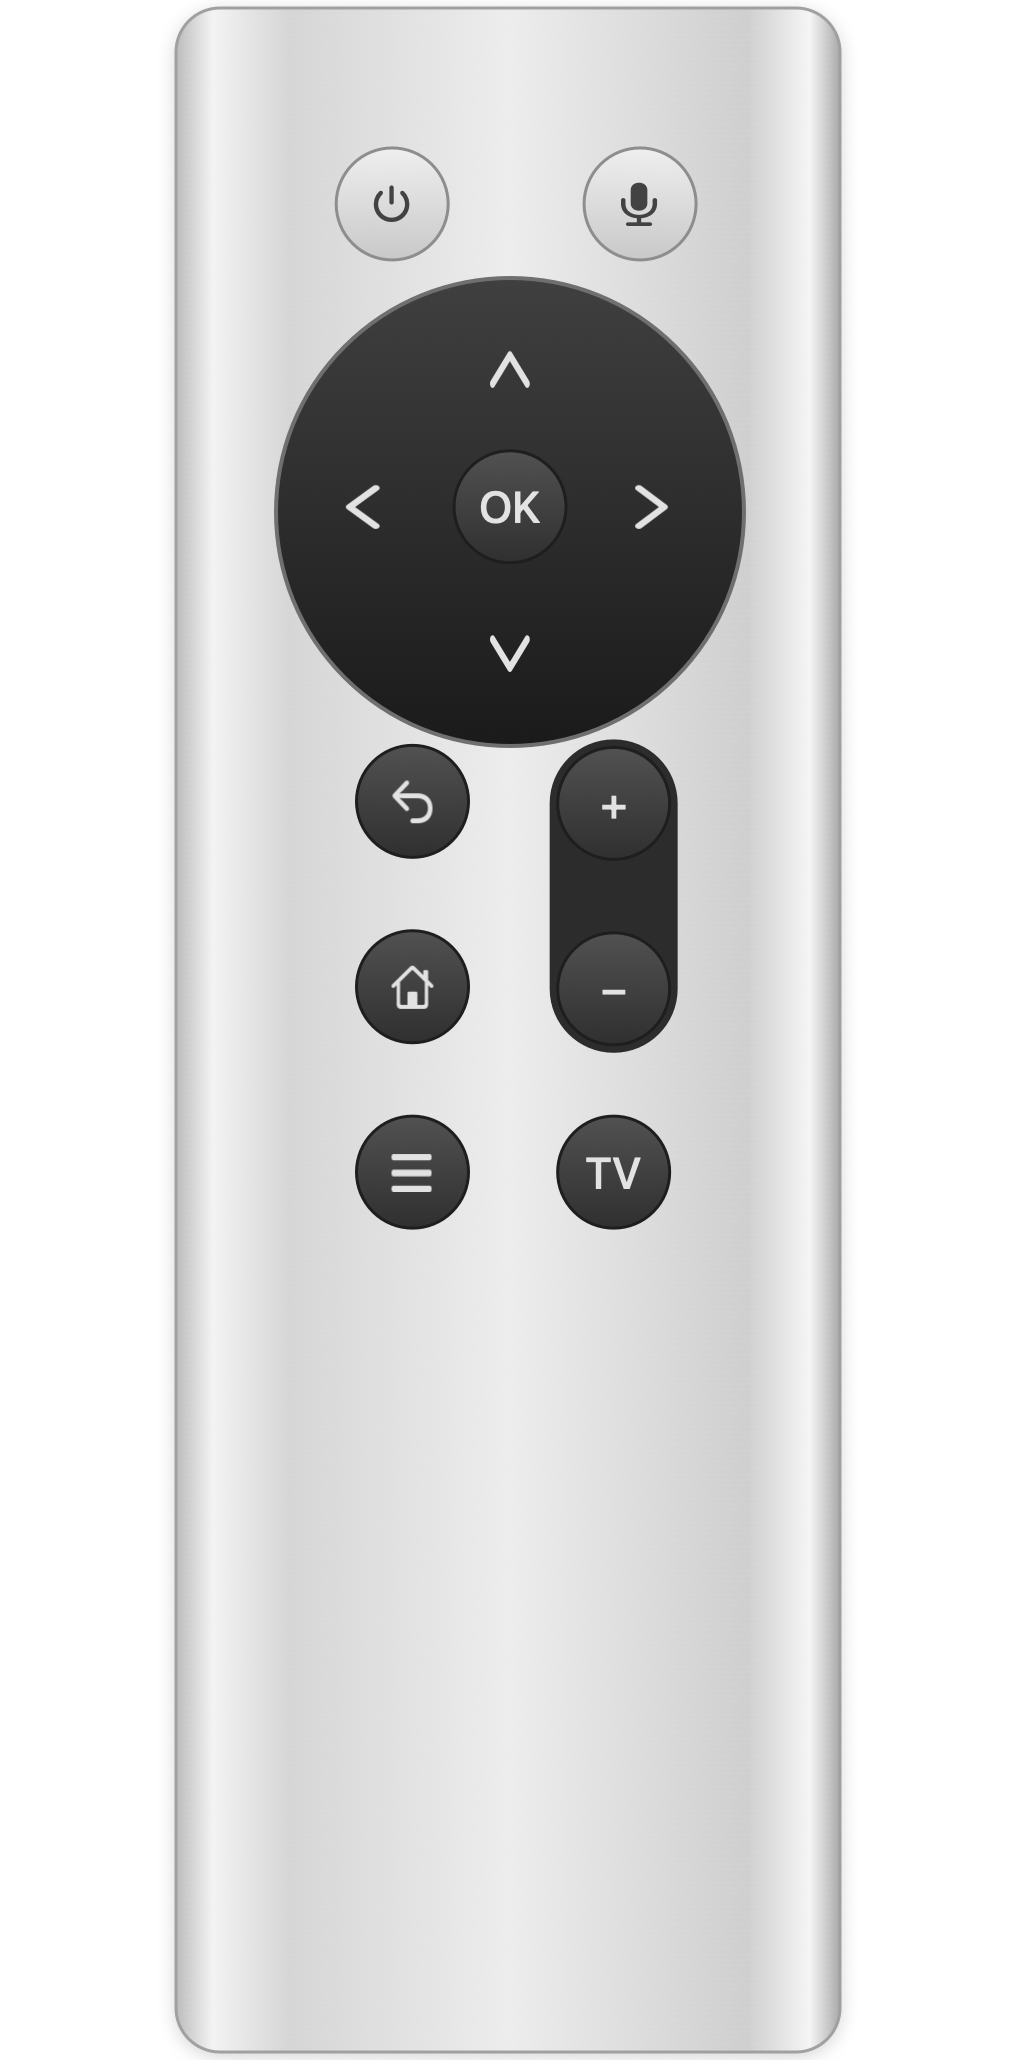
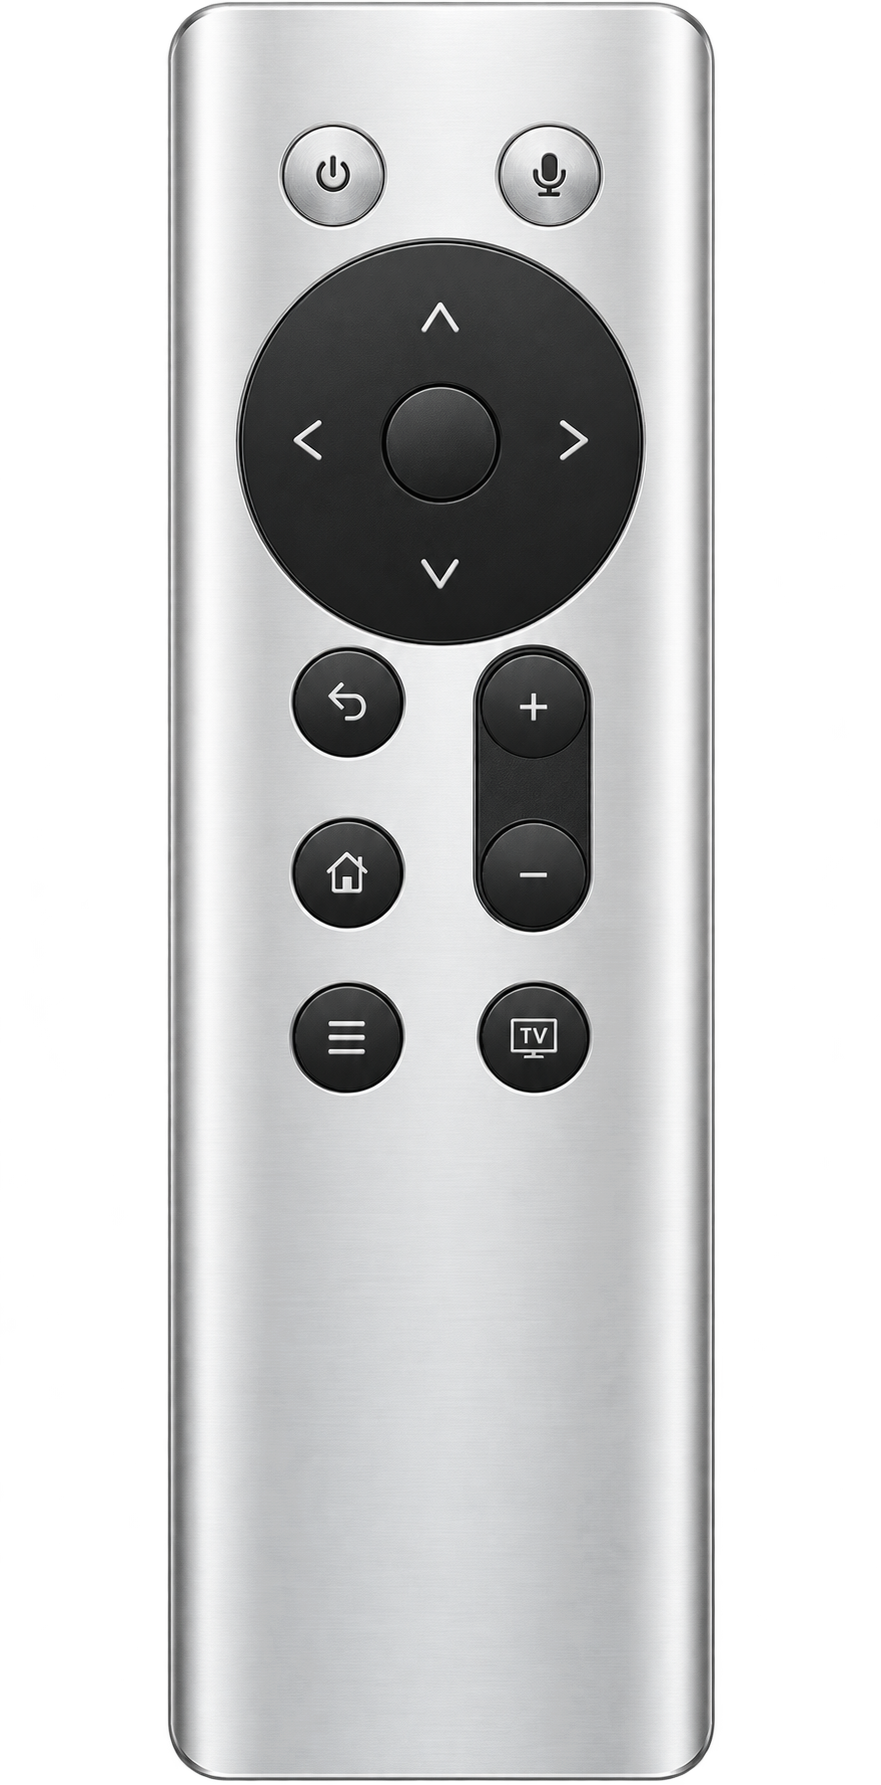
style: replace remote schematic with an unbranded product render

diff --git a/docs/artwork.md b/docs/artwork.md
@@ -1,0 +1,12 @@
+# 遥控器资源
+
+成品：`Resources/BuddyRemoteIllustration.png`。使用内置 imagegen，根据本项目绘制的按键布局参考生成写实产品渲染，保留透明背景，不包含厂商 Logo、品牌字样或下载的产品照片。
+
+`scripts/generate-remote-layout-reference.swift` 只生成布局参考，不应直接覆盖成品。生成新版本后核对电源、语音、方向、确认、返回、主页、菜单、音量和 TV 键与映射连线的位置，并运行 `python3 scripts/verify-onboarding-resources.py Resources`。
+
+## 成品提示词
+
+```text
+Use case: sketch-to-render. Asset type: transparent UI product cutout for a remote button-mapping panel. The referenced image is ONLY a geometric layout guide, not the desired visual style. Turn it into a premium photorealistic studio product render of a slim silver aluminum Bluetooth voice remote, shown perfectly front-on, upright, centered, full length visible, no perspective tilt. Preserve EXACTLY the existing outer framing, remote silhouette and every button center so annotation lines still land on the buttons. Replace the crude flat diagram aesthetic with convincing fine brushed aluminum, narrow polished bevels, finely molded matte black plastic, subtle edge highlights, realistic soft product lighting and elegant restrained contrast. Top two buttons: power on left, microphone on right, embossed small dark symbols on silver circular buttons. Large black circular direction pad below with subtle small directional marks and inset center confirm button. Below it three rows: return / volume plus, home / volume minus, menu / TV. Plus and minus share one black vertical rocker. Preserve all button locations, dimensions and proportions from the reference closely. Keep legends delicate rather than oversized. The lower half is bare clean metal. Absolutely NO manufacturer logo, NO Xiaomi/Mi symbols, NO Voice Input Buddy text, no branding anywhere, no watermark, no labels outside the remote, no hands or background scene. True transparent alpha background. This should look like a high-end original 3D product visualization, NOT an SVG, cartoon, diagram or icon.
+```
+

diff --git a/THIRD_PARTY_NOTICES.md b/THIRD_PARTY_NOTICES.md
@@ -99,4 +99,4 @@ The upstream project included an RC003 product photo. That photo and upstream pr
 
 ## Setup guide screenshots
 
-The 16 light/dark setup screenshots in `Resources/Onboarding` are carried over from remote-mic-app (SayAll contributors), under the upstream project license. They illustrate third-party and macOS settings; depicted interface copyrights and trademarks remain with their respective owners. The upstream proprietary app logo and remote product photo are not bundled. `BuddyRemoteIllustration.png` is an original schematic generated by `scripts/generate-remote-illustration.swift`.
+The 16 light/dark setup screenshots in `Resources/Onboarding` are carried over from remote-mic-app (SayAll contributors), under the upstream project license. They illustrate third-party and macOS settings; depicted interface copyrights and trademarks remain with their respective owners. The upstream proprietary app logo and remote product photo are not bundled. `BuddyRemoteIllustration.png` is an unbranded generated product render. `scripts/generate-remote-layout-reference.swift` produces its coordinate reference, not the shipped image. The artwork uses no manufacturer logos or downloaded product photos.

diff --git a/docs/provenance.md b/docs/provenance.md
@@ -14,4 +14,4 @@
 
 本项目新图标由 scripts/generate-icon.swift 绘制，菜单栏图标由 scripts/generate-status-icons.swift 绘制，表达麦克风与硬件按钮，未使用原品牌图形。
 
-设置向导的 16 张浅色／深色操作截图来自上游 `Resources/Onboarding`，保留来源归属；未使用其受限 App Logo 或遥控器产品照片。遥控器按键示意图由本项目 `scripts/generate-remote-illustration.swift` 原创绘制，按键位置与映射连线共用归一化坐标。构建及安装包检查会验证截图与示意图完整性。
+设置向导的 16 张浅色／深色操作截图来自上游 `Resources/Onboarding`，保留来源归属；未使用其受限 App Logo 或遥控器产品照片。遥控器图是基于本项目按键布局参考生成的无品牌写实渲染，未使用厂商产品照片。`scripts/generate-remote-layout-reference.swift` 仅生成坐标参考，不覆盖成品；按键位置与映射连线共用归一化坐标。提示词及维护说明见 [artwork.md](artwork.md)。构建及安装包检查会验证截图与示意图完整性。
